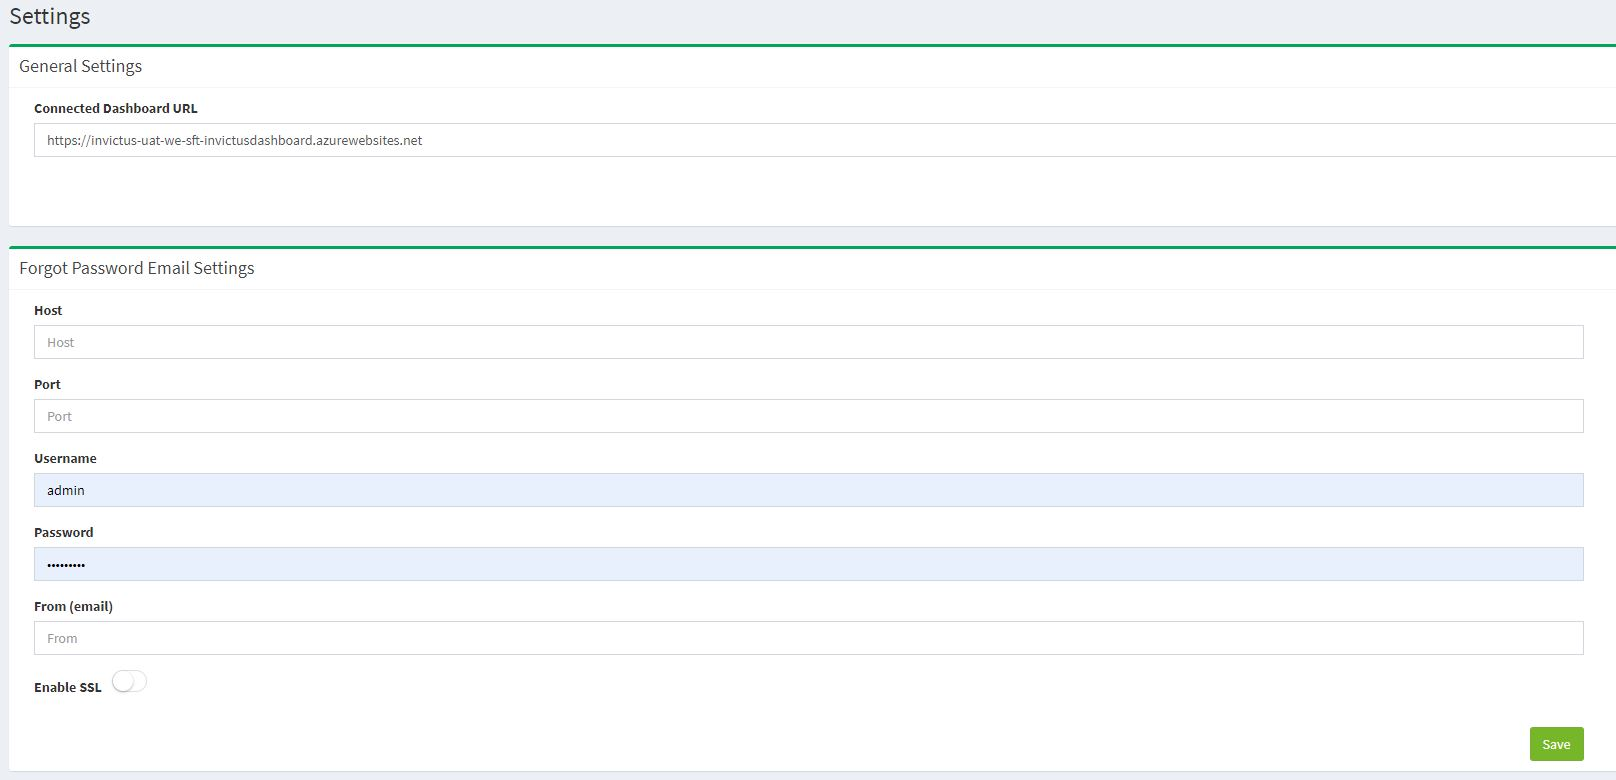
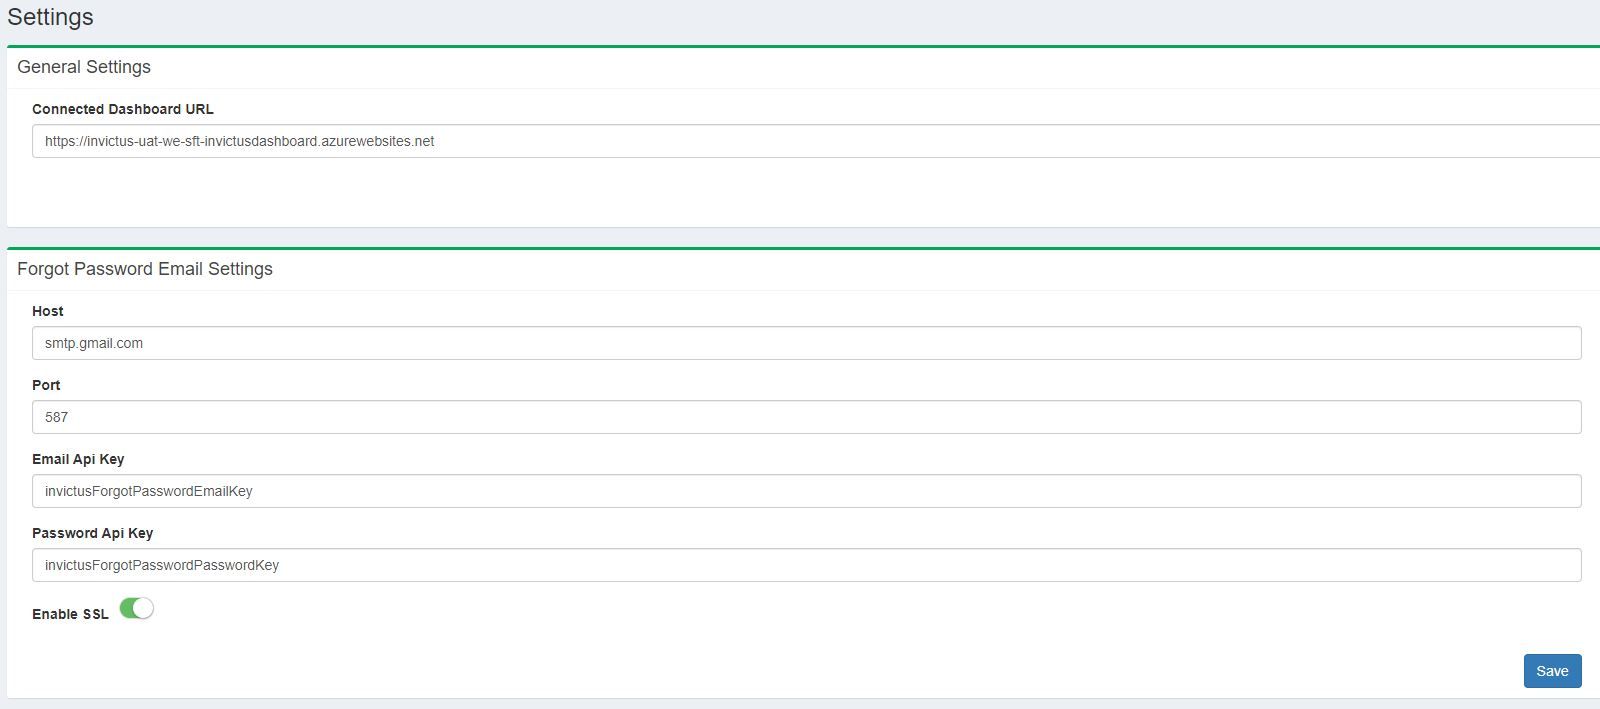
adr - changed the wording

diff --git a/dashboard/forgotpassword.md b/dashboard/forgotpassword.md
@@ -12,7 +12,7 @@ First you need a system admin account to login in the dashboard and from the set
 
 ![forgotpassword](../images/dashboard/forgotpassword5.JPG)
 
-In here, you need to enter the host for example "smpt.gmail.com" if it's for a gmail email account. The port number, which by default is 587. The username and password for the email account to get access. The from is from which email you want to send it. If you want you can use "Invictus Dashboard <invictusdashboard@gmail.com>". The last thing is if it's ssl enabled or not. It's better to use enable ssl as the major email providers need this as to be checked. You can proceed by clicking the save button and you are done.
+In here, you need to enter the host for example "smpt.gmail.com" if it's for a gmail email account. The port number, which by default is 587. The email api key and password api key is the key of the keyvault from which you need to retrieve the email address and password of the forgot password email you are going to send from. The last thing is if it's ssl enabled or not. It's better to use enable ssl as the major email providers need this as to be checked. You can proceed by clicking the save button and you are done.
 
 ## Forgot your password
 
